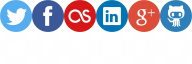
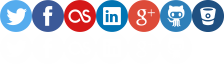
Updated multiple things

diff --git a/assets/css/brunophilipe.css b/assets/css/brunophilipe.css
@@ -219,7 +219,7 @@ article.single h2
 .social a
 {
 	background-image: url(../img/social.png);
-	background-size: 192px;
+	background-size: 224px;
 
 	width: 32px;
 	height: 32px;
@@ -235,6 +235,7 @@ article.single h2
 .social a#li {background-position: -96px 32px;}
 .social a#gp {background-position: -128px 32px;}
 .social a#gh {background-position: -160px 32px;}
+.social a#bb {background-position: -192px 32px;}
 
 .social a#tw:hover {background-position: 0px 0px;}
 .social a#fb:hover {background-position: -32px 0px;}
@@ -242,6 +243,7 @@ article.single h2
 .social a#li:hover {background-position: -96px 0px;}
 .social a#gp:hover {background-position: -128px 0px;}
 .social a#gh:hover {background-position: -160px 0px;}
+.social a#bb:hover {background-position: -192px 0px;}
 
 form input, form textarea
 {
@@ -262,7 +264,7 @@ footer
 	margin: 16px 0 20px;
 }
 
-@media only screen and (-moz-min-device-pixel-ratio: 2), only screen and (-o-min-device-pixel-ratio: 2/1), only screen and (-webkit-min-device-pixel-ratio: 2), only screen and (min-device-pixel-ratio: 2) {
+@media only screen and (moz--min-device-pixel-ratio: 2), only screen and (-o-min-device-pixel-ratio: 2/1), only screen and (-webkit-min-device-pixel-ratio: 2), only screen and (min-device-pixel-ratio: 2) {
 	.social a
 	{
 		background-image: url(../img/social@2x.png);

diff --git a/assets/templates/menu.html b/assets/templates/menu.html
@@ -2,11 +2,12 @@
 				{menu}
 			</ul>
 			<div class="social">
-				<a id="fb" target="_blank" href="https://facebook.com/brunophilipe"></a>
-				<a id="tw" target="_blank" href="https://twitter.com/brunophilipe"></a>
-				<a id="lf" target="_blank" href="https://www.last.fm/user/brunoresende29"></a>
-				<a id="li" target="_blank" href="https://www.linkedin.com/pub/bruno-philipe-resende-silva/33/416/ba7"></a>
-				<a id="gh" target="_blank" href="https://www.github.com/brunophilipe"></a>
-				<a id="gp" target="_blank" href="https://plus.google.com/u/0/+BrunoPhilipe"></a>
+				<a id="fb" target="_blank" title="Facebook" href="https://facebook.com/brunophilipe"></a>
+				<a id="tw" target="_blank" title="Twitter" href="https://twitter.com/brunophilipe"></a>
+				<a id="lf" target="_blank" title="Last.fm" href="https://www.last.fm/user/brunoresende29"></a>
+				<a id="li" target="_blank" title="LinkedIn" href="https://www.linkedin.com/pub/bruno-philipe-resende-silva/33/416/ba7"></a>
+				<a id="gh" target="_blank" title="GitHub" href="https://www.github.com/brunophilipe"></a>
+				<a id="bb" target="_blank" title="BitBucket" href="https://bitbucket.org/brunophilipe"></a>
+				<a id="gp" target="_blank" title="Google+" href="https://plus.google.com/u/0/+BrunoPhilipe"></a>
 			</div>
 			<hr>

diff --git a/contact.php b/contact.php
@@ -32,12 +32,13 @@ if ($denied)
 				<li><a href="/">Home</a></li><li><a href="/about">About</a></li><li><a href="/contact">Contact</a></li><li><a href="http://blog.brunophilipe.com/">Blog</a></li>
 			</ul>
 			<div class="social">
-				<a id="fb" target="_blank" href="http://facebook.com/brunophilipe"></a>
-				<a id="tw" target="_blank" href="http://twitter.com/brunophilipe"></a>
-				<a id="lf" target="_blank" href="http://www.last.fm/user/brunoresende29"></a>
-				<a id="li" target="_blank" href="http://www.linkedin.com/pub/bruno-philipe-resende-silva/33/416/ba7"></a>
-				<a id="gh" target="_blank" href="http://www.github.com/brunophilipe"></a>
-				<a id="gp" target="_blank" href="https://plus.google.com/u/0/+BrunoPhilipe"></a>
+				<a id="fb" target="_blank" title="Facebook" href="https://facebook.com/brunophilipe"></a>
+				<a id="tw" target="_blank" title="Twitter" href="https://twitter.com/brunophilipe"></a>
+				<a id="lf" target="_blank" title="Last.fm" href="https://www.last.fm/user/brunoresende29"></a>
+				<a id="li" target="_blank" title="LinkedIn" href="https://www.linkedin.com/pub/bruno-philipe-resende-silva/33/416/ba7"></a>
+				<a id="gh" target="_blank" title="GitHub" href="https://www.github.com/brunophilipe"></a>
+				<a id="bb" target="_blank" title="BitBucket" href="https://bitbucket.org/brunophilipe"></a>
+				<a id="gp" target="_blank" title="Google+" href="https://plus.google.com/u/0/+BrunoPhilipe"></a>
 			</div>
 			<hr>
 <?php

diff --git a/index.php b/index.php
@@ -45,7 +45,7 @@ function render_homepage()
 		$html_menu = _renderMenu(-1);
 	}
 
-	usort($entries, '_sort_objects_by_id_inverse');
+	// usort($entries, '_sort_objects_by_id_inverse');
 
 	// Get entry html
 	$html_entry = file_get_contents($root_folder."/assets/templates/entry.html");
